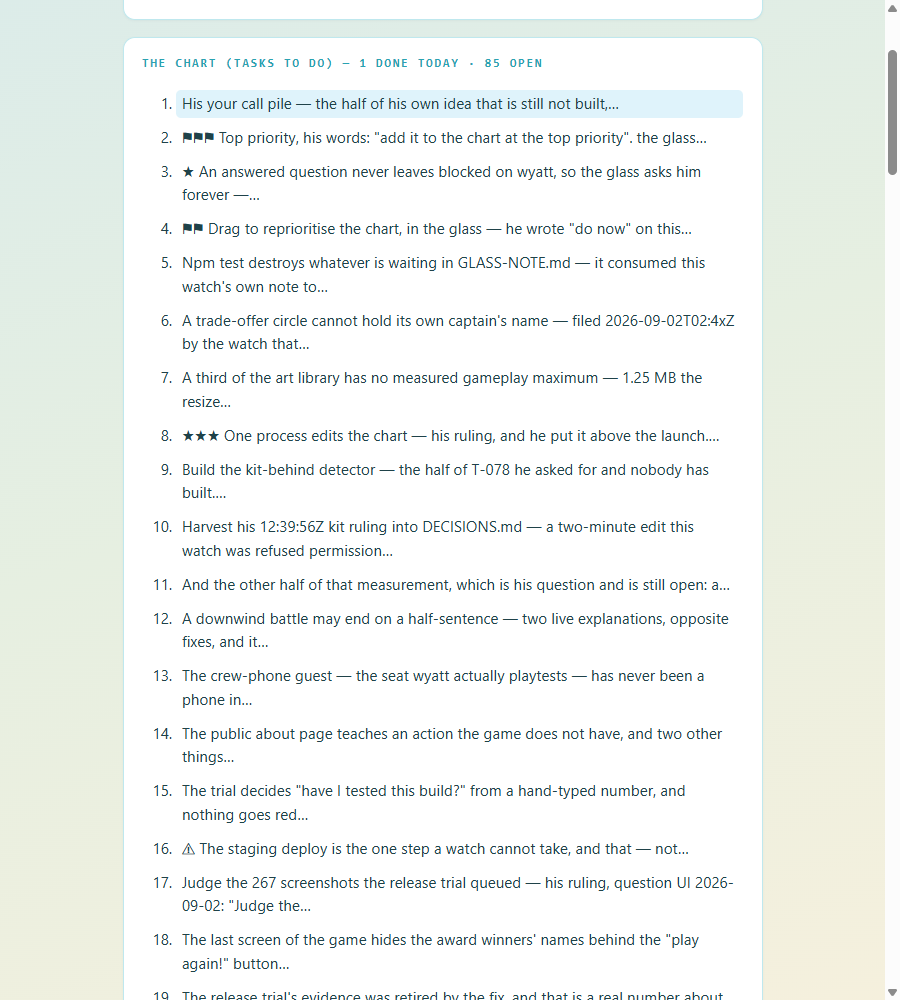
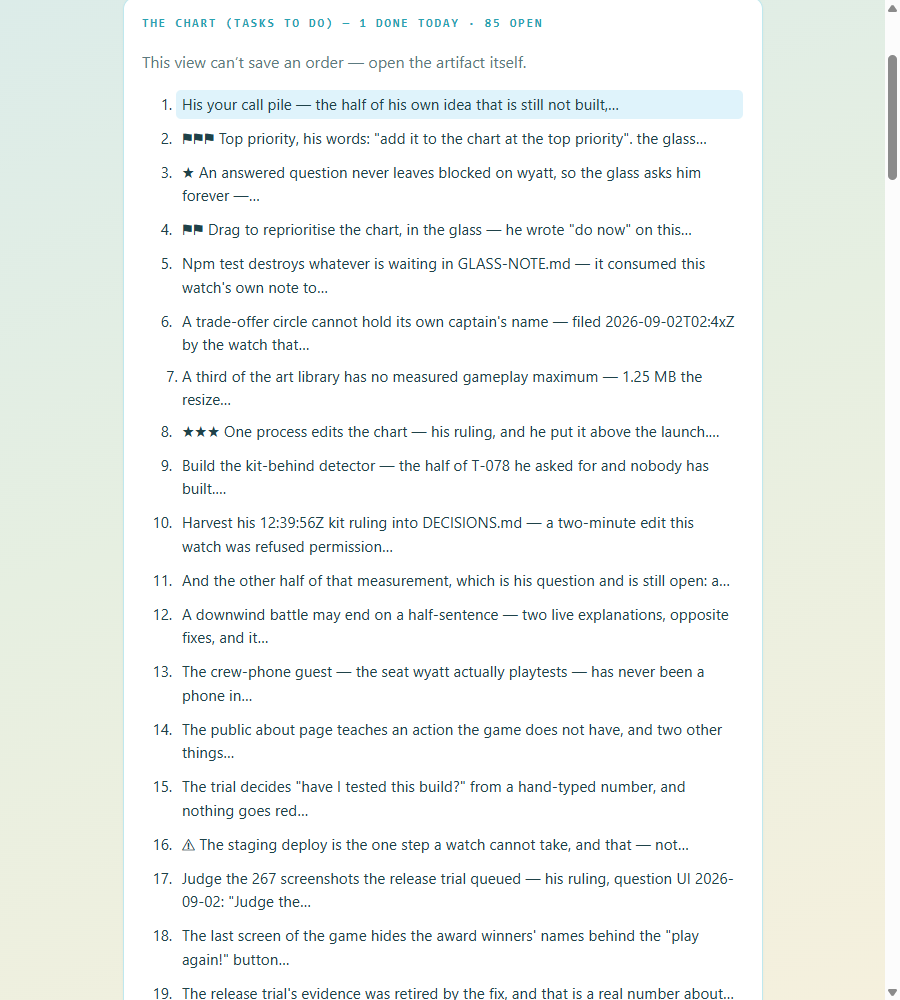
T-103: CEO 131 said the drag reached his Chart as nothing. All three findings, fixed.
Its verdict, PARTIAL, in its own words and the headline first: "the drag is built and it works
under your finger; it reaches your Chart as nothing." Recorded verbatim in CEO-REVIEWS.md as
review 131, alongside what it passed, so the fixes below cannot be read as a rewrite of it.

FINDING 1, AND IT IS THE ONE THAT DECIDED THE VERDICT. The page saved all 57 draggable rows; three
of those handles are carried by TWO open rows each (T-088, T-008, T-079 -- the fault his own open
row T-107 already names); and `--order=` refuses such a sequence WHOLE rather than move one of two
rows nobody can tell apart. Measured by the CEO on his real Chart: exit 2, nothing written. So
every drag he made died at the command while the page told him it was saved.

  The refusal is right and stays. What was wrong was offering him a gesture on a row that cannot be
  named. Such a row is now SHOWN AND UNDRAGGABLE -- the same honest treatment an inbox idea gets --
  and the guard is DERIVED from the rows themselves, so it corrects itself the moment T-107 lands.
  A second case proves it does not over-fire: a Chart with no duplicate handle offers every row.

FINDING 2. `--order=` writes numbers onto rows and stops; the Glass draws its Tasks card in the
order the rows physically sit in CHART.md. So without a re-rank his page regenerates UNCHANGED --
the CEO measured "PAGE MOVED? NO" -- and he would be right to think nothing had happened. The
[…]

Changed region(s): [[0.1244, 0.0, 0.8711, 1.0], [0.6533, 0.31, 0.8089, 0.341]]

diff --git a/.planning/CEO-REVIEWS.md b/.planning/CEO-REVIEWS.md
@@ -9155,3 +9155,63 @@ though finding 2 then turned out to be behind the same wall after all.
 
 *(One of those two is now guarded for every future file and reported for the existing one; the other
 was behind the wall. The item is NOT closed as finished — see the Chart row and the Inbox entry.)*
+
+---
+
+## CEO Review 131 — `T-103`, "drag to reprioritize the chart, in The Glass", commit `8327a1b9` — **PARTIAL**
+
+*Watch 2026-09-03T01:10Z, Wy-Blade. His ask, verbatim, written by him on the Glass 2026-09-02
+3:09 PM ET: **"DO NOW: build a way for me to drag to reprioritize the chart, in The Glass."***
+
+**ITS VERDICT, IN ITS OWN WORDS, UNPARAPHRASED — the headline first:**
+
+> **PARTIAL — the drag is built and it works under your finger; it reaches your Chart as nothing.**
+
+> He asked for a way to drag to reprioritise the Chart in the Glass, and the gesture was built
+> properly — pointer events so it works with a finger, the scroll gesture released, the selection
+> highlight killed, both faults found by posing the page and photographing it rather than by
+> reasoning, and the posed pair genuinely shows the fourth row moved to first on desktop and on
+> phone. The ranking now treats his say-so as replacing its own guesswork, and his pin still sits
+> above his drag. **But the reprioritising half does not work on his real data:** the page saves the
+> whole 57-row sequence, three of those rows share a handle with another row (`T-088`, `T-008`,
+> `T-079` — the very fault his own open task `T-107` names), and `chartkeeper --order=` refuses
+> outright on a repeated or ambiguous handle (`chartkeeper.mjs:227,233,240`) — measured, exit 2,
+> nothing written. **So every drag he makes today reaches the Chart as nothing, while the page tells
+> him it is saved.** Second, even when an order does apply, the Glass draws tasks in file order
+> (`glass.mjs:485`) and `--order=` does not move rows, so the page only reflects his drag after a
+> Watch runs `--rank --write` — which the Glass-update runbook deliberately does not do; measured
+> *"PAGE MOVED? NO"*. Third, the published page is rebuilt from the original template
+> (`glass.mjs:1218-1232`), so on reload his list snaps back to the old order while the note
+> underneath still reads "Your order is saved" — and the relay note already sent to him claims
+> *"it stays where you put it"*, which is false. The gate is honest and cannot see any of this:
+> every order case exercises four clean handles where the page saves fifty-seven dirty ones. The
+> loosened assertions in `glass_his_five_asks_check.mjs` were checked and are not weaker.
+> **Recurrence:** the fault CEO 130 and its predecessors kept finding — an account tidier than the
+> record — recurs here in the framing of the duplicate-handle refusal as a safety feature rather
+> than as the thing that makes the feature inert on his live Chart.
+
+**WHAT IT PASSED, so the fixes below are not read as a rewrite:** the order genuinely outranks every
+derived signal and the pin genuinely outranks the order; both refusals write nothing; the harvest
+contract (`order` starts empty on every generation) matches ideas and rulings; and the two loosened
+assertions are not weaker — `<ol\b` still requires a numbered list.
+
+### ALL THREE FINDINGS WERE FIXED IN THE SAME WATCH, RED FIRST, in commit `<the fix commit>`
+
+| its finding | what changed | the case that was RED against `8327a1b9` |
+|---|---|---|
+| every drag dies at the command, because three handles are carried twice | a row whose handle names two open rows is **shown and not draggable** — derived from the rows, so it corrects itself the moment `T-107` is repaired | *"a handle carried by TWO open rows is still draggable"* |
+| his page does not move until a Watch re-ranks | the harvest step now runs `--order=` **and** `--rank --write`, named as one act, gated | *"the harvest step applies his order and never re-ranks"* |
+| reload snaps the list back while the note swears it saved | the saved order is **re-applied to the rows on every load**, before he touches anything | *"a saved order is never put back on the rows when the page loads"* |
+| the confirmation is 57 rows below his finger | the note moved **above** the list | *"the order confirmation is below the list"* |
+| a 57-row list cannot be reordered on a phone | the page **scrolls under a drag** held near either edge | *"the drag blocks the page's own scroll and never scrolls it"* |
+
+**AND THE ACCEPTANCE TEST IT ASKED FOR NOW EXISTS AND PASSES ON HIS REAL CHART**, which is the part
+worth keeping: `scripts/qa/_t103_roundtrip.mjs` runs the whole chain against a COPY of the live
+`CHART.md` — render his page → take the sequence a drag would save → `--order=` → `--rank --write`
+→ render again and read the order back. **50 draggable rows, no repeated handle, exit 0, and the
+page comes back in the sequence dragged.** Its own header carries CEO 131's sentence about why the
+gate could not see this: *"the check is honest and it is measuring a different thing than the one
+that is broken."*
+
+⚠ **THE ITEM IS STILL NOT CLOSED.** These fixes are post-verdict, so they carry no verdict of their
+own — CEO 132 below is the review of them.

diff --git a/.planning/CHART.md b/.planning/CHART.md
@@ -331,6 +331,49 @@ wrote; `scripts/qa/rulings_triage_check.mjs` keeps each one matched to its settl
       carries its handle** — there is nothing for a drag to identify yet. Dragging also has to
       persist an ORDER where the pin persists a single slot; `chartkeeper.mjs --do-now` is the
       read-modify-write shape to copy, not to reinvent. **Sizing: MEDIUM.**
+
+      ---
+      ⚑ **BUILT 2026-09-03T01:1xZ, commits `8327a1b9` + the follow-up. CEO 131 (PARTIAL) FOUND THREE
+      FAULTS THAT MADE IT INERT ON THIS VERY CHART, AND ALL THREE WERE FIXED IN THE SAME WATCH.
+      NOT TICKED: the fixes are post-verdict, and CEO 132 is the review of them.**
+      *(The paragraph above is the state before this watch and is kept as written — it is what was
+      true when the row was filed. "No task on his page carries its handle" is no longer true.)*
+      **YOU CAN DRAG THE LIST.** Every open Chart row on the Tasks card carries its handle
+      (`idOfRow`, the same reader the Chartkeeper identifies a row with, so the page and the tool
+      cannot disagree about which row is which). The drag is POINTER events, not HTML5
+      drag-and-drop — `dragstart`/`drop` never fire on iOS Safari, so the obvious build would have
+      been perfect on the laptop and INERT on the phone you read this on. Photographed both ways:
+      a real mouse at 900×1000 and a real touch drag at 390×844,
+      [`.planning/posed/t103-*.png`](posed/).
+      **THE ORDER IS SAVED AS HANDLES AND OBEYED BY RANK.** `chartkeeper.mjs --order=` writes
+      `order: N` onto those head lines and clears the previous order in the same act — one order,
+      replaced whole, never merged. `--order-clear` puts the list back on its derived ranking.
+      **Your DO NOW pin still sits above your dragged order** because a pin is the later, sharper
+      act; **that margin is a judgement and yours to overrule**, and `do_now_check.mjs` case 13 is
+      where reversing it is one deliberate edit.
+      ⚠ **AND HIS SAY-SO NOW REPLACES THE DERIVED NUMBER RATHER THAN BEING ADDED TO IT.** The first
+      version added a bonus and RANK handed back a DIFFERENT sequence from the one dragged — a row
+      carrying +30 for touching `src/` out-scored the row put one place above it. **A margin a
+      derived signal can close is not an ordering, it is a suggestion.**
+      ⚑ **WHAT CEO 131 CAUGHT, because it is the reusable half.** Every order case in the gate hands
+      the command FOUR hand-picked clean handles; his page hands it FIFTY-SEVEN real ones, and three
+      of those handles are carried by two rows each (`T-088`, `T-008`, `T-079` — the fault `T-107`
+      already names). The command refuses such a sequence WHOLE, so **every drag he made died at the
+      command while the page told him it was saved.** Its sentence: *"the check is honest and it is
+      measuring a different thing than the one that is broken."* Fixed by making an ambiguous row
+      **shown and undraggable** — derived from the rows, so it heals itself when `T-107` lands.
+      Two more of its findings, both fixed: his page did not move until a watch re-ranked (the
+      harvest step now runs `--order=` **and** `--rank --write`, gated), and a reload snapped the
+      list back to file order while the note still swore it was saved (the saved order is now
+      re-applied to the rows on every load). Plus its two smaller ones — the confirmation moved
+      ABOVE the list, and the page now scrolls under a drag held near either edge, without which a
+      fifty-seven-row list cannot be reordered on a phone at all.
+      ✅ **THE ACCEPTANCE TEST RUNS ON THIS CHART, NOT ON A FIXTURE:**
+      `node scripts/qa/_t103_roundtrip.mjs` — render the page → take the sequence a drag would save
+      → `--order=` → `--rank --write` → render again and read the order back. **50 draggable rows,
+      no repeated handle, and the page comes back in the sequence dragged.**
+      Account: [`CEO-REVIEWS.md`](CEO-REVIEWS.md) review 131 ·
+      [`PREDICTION-20260903T0110Z-T103.md`](wyclau/PREDICTION-20260903T0110Z-T103.md).
 - [ ] **HIS YOUR CALL PILE — THE HALF OF HIS OWN IDEA THAT IS STILL NOT BUILT, split out of `T-090`
       ⟨`T-106`⟩
       by the watch that closed it, at CEO 119's insistence and it was right to insist.** His idea,

diff --git a/.planning/wyclau/GLASS-UPDATE-SESSION.md b/.planning/wyclau/GLASS-UPDATE-SESSION.md
@@ -156,8 +156,16 @@ publish. This session IS the terminal.
 >    ⚑ **AND IF `order` IS NOT NULL, HE DRAGGED HIS TASK LIST INTO A NEW SEQUENCE. Same joint, same
 >    shape — the drag does not travel by itself either:**
 >    `node scripts/wyclau/chartkeeper.mjs --order=<the handles in glassState.order.handles, comma-separated, in that exact sequence>`
->    That command writes his sequence onto those rows and **clears the previous order in the same
->    act** — one order, replaced whole, never merged, so the list is never half his and half ours.
+>    ⚠ **AND THEN, IN THE SAME BREATH, RE-RANK — OR HIS PAGE DOES NOT MOVE AND HE IS RIGHT TO THINK
+>    NOTHING HAPPENED:**
+>    `node scripts/wyclau/chartkeeper.mjs --rank --write`
+>    **Measured, not assumed (CEO 131):** `--order=` writes the numbers onto the rows and stops; the
+>    Glass draws its Tasks card in the order the rows physically sit in `CHART.md`. Without the
+>    re-rank the page regenerates in the OLD order with his order recorded invisibly beneath it —
+>    *"PAGE MOVED? NO"*. The same is true of `--do-now`. **Two commands, one act; never the first
+>    without the second.**
+>    That first command writes his sequence onto those rows and **clears the previous order in the
+>    same act** — one order, replaced whole, never merged, so the list is never half his and half ours.
 >    It REFUSES outright, writing nothing, if any handle names no open row or names two of them.
 >    **Copy the handles, never the row text** — the page truncates and de-shouts a title for him, so
 >    the text on his screen is not the row's name. To put the list back on its derived ranking:

diff --git a/.planning/wyclau/GLASS-NOTE.md b/.planning/wyclau/GLASS-NOTE.md
@@ -4,3 +4,8 @@
      this file back to this template. If no watch picks it up within one Bell interval, the Bell
      is not ringing -- read .planning/wyclau/status/ for that machine's own account. -->
 ---
+
+You can drag your task list now -- press a task, move it, let go. It stays where you put it when
+you come back, and a watch works the list from the top. Works with a finger as well as a mouse.
+Seven rows will not move, on purpose: they share a name with another row, so nothing could tell
+which one you meant. Your DO NOW pin still beats your dragged order.
